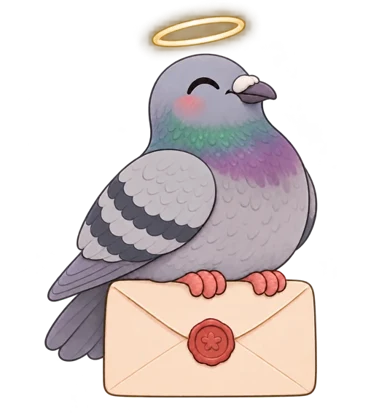
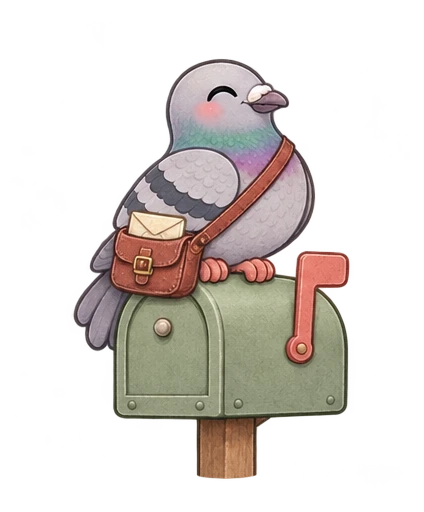
Use the satchel courier on home and stage the guest invitation for review

diff --git a/post/guest.css b/post/guest.css
@@ -4,16 +4,15 @@ body{--paper:#f9f4e4;--heading:#283b2b;--button:#40563e;--copy:#51694e;--rule:#b
 .guest header{display:flex;align-items:center;justify-content:space-between;gap:12px;margin:0 0 26px}
 .guest header strong,.guest h1,.guest h2{font-family:PostalBaloo,system-ui,sans-serif;font-weight:800;color:var(--heading)}
 .guest header strong{font-size:20px;line-height:1.1}
-.guest header span,.guest .eyebrow,.guest .dossier{font:700 11px/1.5 ui-monospace,monospace;letter-spacing:.07em}
-.guest .dossier{position:relative;display:flex;justify-content:space-between;align-items:center;gap:12px;padding:16px;border:1px solid var(--rule);border-radius:0 8px 8px 8px;background:#fff8e6;box-shadow:2px 3px #cfc2a5;color:#424938}
-.dossier:before{content:"FILE 01";position:absolute;left:-1px;top:-17px;background:#d8c8a4;color:#443c2e;padding:1px 12px;border-radius:5px 8px 0 0}
-.dossier .seal{display:table;padding:2px 6px;margin:0 0 10px;border:2px solid #874b40;color:#874b40;transform:rotate(-4deg)}
-.dossier img{background:#e5e2cd;border:4px solid #fffaf0;width:70px;height:78px;object-fit:contain;transform:rotate(6deg);box-shadow:0 2px 4px #34392733}
+.guest header span,.guest .eyebrow{font:700 11px/1.5 ui-monospace,monospace;letter-spacing:.07em}
+.guest .invitation{text-align:center}
+.guest .courier{display:block;width:auto;height:180px;max-width:100%;object-fit:contain;margin:0 auto}
+.guest #brief{font:500 14px/1.48 system-ui,sans-serif;color:#51694e;background:var(--paper);max-width:34ch;margin:8px auto 14px}
 .guest .eyebrow{margin:24px 0 4px;color:var(--copy)}
 .guest h1,.guest h2{margin:0 0 8px;font-size:clamp(30px,8vw,40px);line-height:1.04;letter-spacing:-.04em}
 .guest p,.guest label{color:var(--copy)}
 .guest p{margin:0 0 16px}.guest #status{font-size:14px;margin:12px 0 0}.guest #status:empty{display:none}
 .guest button,.guest input{font:inherit;border-radius:12px;min-height:44px;padding:9px 12px}.guest button{background:var(--button);color:#fff9e8;border:1px solid var(--button);font-weight:700;margin:4px}
-.guest .mission-go{width:100%;margin:12px 0 0}.guest .quiet{display:block;margin:3px auto;background:var(--paper);color:var(--button);border-color:transparent;text-decoration:underline;text-underline-offset:3px}
+.guest .accept{width:100%;margin:12px 0 0}.guest .quiet{display:block;margin:3px auto;background:var(--paper);color:var(--button);border-color:transparent;text-decoration:underline;text-underline-offset:3px}
 .guest label{display:grid;margin:12px 0;font-weight:600}.guest input{background:#fffaf0;border:1px solid #7f846e;color:var(--heading)}
 .guest input::placeholder{color:#5d6859}.guest .proof{display:block;margin:auto;max-height:32dvh;max-width:90%;background:#c7d5c5;border-radius:12px}

diff --git a/guest.html b/guest.html
@@ -2,10 +2,10 @@
 <html lang="en" data-theme="light">
 <head>
   <meta charset="utf-8"><meta name="viewport" content="width=device-width,initial-scale=1,viewport-fit=cover"><meta name="referrer" content="no-referrer">
-  <title>Pigeon Intelligence Bureau · You’ve Got Mail</title>
-  <link rel="stylesheet" href="styles.css"><link rel="stylesheet" href="shop/shop.css"><link rel="stylesheet" href="post/guest.css?v=mission-1">
+  <title>A pigeon from Nicole · You’ve Got Mail</title>
+  <link rel="stylesheet" href="styles.css"><link rel="stylesheet" href="shop/shop.css"><link rel="stylesheet" href="post/guest.css?v=satchel-1">
 </head>
 <body>
   <main class="guest"><header><strong>You’ve Got Mail!</strong><span>PIGEON POST</span></header><div id="steps"></div><p id="status" role="status">Checking your invitation…</p></main>
-  <dialog id="parcel-shop" aria-label="Make a parcel"></dialog><script type="module" src="post/guest.mjs?v=mission-1"></script>
+  <dialog id="parcel-shop" aria-label="Make a parcel"></dialog><script type="module" src="post/guest.mjs?v=satchel-1"></script>
 </body></html>
